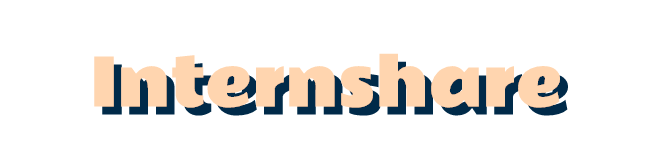
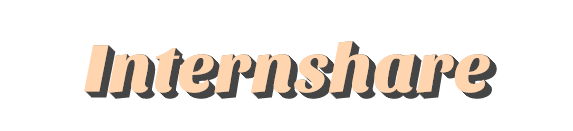
ui fixes

Changed region(s): [[0.1187, 0.3053, 0.8901, 0.7634]]

diff --git a/senior-project/src/views/Home.vue b/senior-project/src/views/Home.vue
@@ -1,13 +1,14 @@
 <template>
     <div id="app">
         <img class="background" src="../assets/background.png">
-        <!-- <img  src="../assets/Internshare.png"> -->
+        <img class="title" src="../assets/Internshare.png">
         <v-card class="intro">
           <v-card-actions>
-            <v-text-field
-              label="Search for a company to start exploring!"
+            <v-text-field v-model="searched"
+              label="Search to start exploring! (ex. Company Name)"
               single-line
               solo hide-details
+              @click:append="explore"
               append-icon="mdi-magnify"
             ></v-text-field>
           </v-card-actions>
@@ -17,14 +18,17 @@
             </v-btn>
           </v-card-actions>
         </v-card>
-        <!-- </div> -->
     </div>
 </template>
 
 <script>
-
+import { EventBus } from "../event-bus";
 export default {
   name: "Home",
+  data: () => ({
+    searched: "",
+    filters: [],
+  }),
   components: {},
   computed: {},
   methods: {
@@ -32,6 +36,9 @@ export default {
       this.$router.push({ name: "Create" });
     },
     explore() {
+      this.filters.push(this.searched)
+      EventBus.$emit("hasFilters", true);
+      EventBus.$emit('filters', this.filters)
       this.$router.push({ name: "Explore" });
     },
   },
@@ -41,44 +48,12 @@ export default {
 <style lang="scss" scoped>
 @import url('https://fonts.googleapis.com/css2?family=Rammetto+One&display=swap');
 .title {
-  font-size: 2.5rem !important;
-  text-align: center;
-  font-family: 'Rammetto One', cursive;
-}
-.card-style {
-  display: flex;
-  flex-direction: column;
-  padding: 50px;
-  align-content: center;
-  text-align: center;
-  .v-card__actions {
-    justify-content: center;
-  }
-  .v-card__title {
-    justify-content: center;
-    word-break: normal;
-  }
-}
-.circle {
-  min-height: 150px;
-  min-width: 150px;
-  border-radius: 150px;
-  display: flex;
-  align-content: center;
+  top: 20%;
+  left: 50%;
+  position: fixed;
+  transform: translate(-50%, -20%);
   justify-content: center;
-  // @media all and (max-width: 1263px) {
-  //   height: 100px;
-  //   width: 100px;
-  // }
-  @media all and (max-width: 959px) {
-    min-height: 150px;
-    min-width: 150px;
-  }
-}
-.icon {
-  z-index: 0;
-  font-size: 64px;
-  color: white;
+  width: 500px;
 }
 .background {
   position: absolute;

diff --git a/senior-project/src/components/AppBar.vue b/senior-project/src/components/AppBar.vue
@@ -2,13 +2,16 @@
   <div>
     <v-app-bar app class="primary" fixed dark elevation="10">
       <v-app-bar-nav-icon @click="drawer = true"></v-app-bar-nav-icon>
-      <v-btn v-show="$route.name !== 'Create'" text @click="create">Create</v-btn>
+      <v-btn v-show="$route.name !== 'Create' || $route.name !== 'Home'"
+        text @click="create">
+        Create
+      </v-btn>
       <v-spacer></v-spacer>
       <!-- <v-icon class="sunny-theme">mdi-weather-sunny</v-icon>
       <v-switch v-model="$vuetify.theme.dark"
         hide-details inset type="button" />
       <v-icon>mdi-weather-night</v-icon> -->
-      <v-menu left bottom>
+      <v-menu left bottom class="menu">
         <template v-slot:activator="{ on, attrs }">
           <v-btn
             v-bind="attrs"
@@ -53,13 +56,6 @@
               <v-icon>mdi-home</v-icon>
             </v-list-item-icon>
             <v-list-item-title>Home</v-list-item-title>
-          </v-list-item>
-
-          <v-list-item link @click="create">
-            <v-list-item-icon>
-              <v-icon>mdi-square-edit-outline</v-icon>
-            </v-list-item-icon>
-            <v-list-item-title>Create</v-list-item-title>
           </v-list-item>
 
           <v-list-item link @click="explore">
@@ -123,4 +119,12 @@ export default {
 .sunny-theme {
   padding-right: 15px;
 }
+.menu {
+  min-width: 90px;
+  top: 60px;
+  left: 600px;
+  z-index: 5;
+  text-align: center;
+}
+
 </style>

diff --git a/senior-project/src/App.vue b/senior-project/src/App.vue
@@ -2,7 +2,7 @@
   <v-app class="inspire">
     <load-overlay v-show="loading || $auth.isLoading" />
     <v-overlay :opacity="0.75" v-show="showFilters">
-      <filters @close="close" @hasFilters="setHasFilters" />
+      <filters @close="close"/>
     </v-overlay>
     <app-bar />
     <v-main class="page">
@@ -60,8 +60,7 @@ import { EventBus } from "./event-bus";
 
 export default {
   name: "App",
-  data: (vm) => ({
-    initialDark: vm.$vuetify ? vm.$vuetify.theme.dark : false,
+  data: () => ({
     loading: true,
     showFilters: false,
     hasFilters: false,
@@ -85,6 +84,9 @@ export default {
           this.loading = false;
         });
     }, 5000);
+    EventBus.$on("hasFilters", (val) => {
+      this.hasFilters = val
+    });
   },
   computed: {
     ...mapGetters(["getInternships"]),
@@ -108,9 +110,6 @@ export default {
     clearFilters() {
       EventBus.$emit("clearFilters");
       this.hasFilters = false;
-    },
-    setHasFilters(val) {
-      this.hasFilters = val;
     },
   },
   // created() {

diff --git a/senior-project/src/views/Explore.vue b/senior-project/src/views/Explore.vue
@@ -1,6 +1,15 @@
 <template>
   <v-container class="explore">
     <h1 class="title">Explore!</h1>
+    <v-row>
+      <v-col cols="8" offset-sm="2">
+        <div v-for="(filter,index) in filters" :key="index">
+        <v-chip class="ma-2" close>
+          {{filter}}
+        </v-chip>
+        </div>
+      </v-col>
+    </v-row>
     <postings :getInternships="getInternships" />
   </v-container>
 </template>
@@ -8,9 +17,12 @@
 <script>
 import { mapGetters } from "vuex";
 import Postings from "../components/Postings.vue"
+import { EventBus } from "../event-bus";
 export default {
   name: "Explore",
-  data: () => ({}),
+  data: () => ({
+    filters: []
+  }),
   components: {
     Postings
   },
@@ -18,6 +30,15 @@ export default {
     ...mapGetters(["getInternships"]),
   },
   methods: {},
+  mounted() {
+    EventBus.$on("filter", (val) => {
+      console.log('hello')
+      this.filters = [...val];
+    });
+    EventBus.$on("clearFilter", () => {
+      this.filters = [];
+    });
+  },
 };
 </script>
 

diff --git a/senior-project/src/components/Filters.vue b/senior-project/src/components/Filters.vue
@@ -124,11 +124,12 @@ export default {
   },
   methods: {
     filterPosts() {
-      let arrays = [];
+      const arrays = [];
       if (this.majors.length > 0) {
         arrays.concat(this.majors);
       }
       if (this.companies.length > 0) {
+        console.log('1')
         arrays.concat(this.companies);
       }
       if (this.disciplines.length > 0) {
@@ -140,15 +141,16 @@ export default {
       let removeDupes = arrays.filter((item, pos) => {
         return arrays.indexOf(item) == pos;
       });
+      console.log(arrays)
       EventBus.$emit("filter", removeDupes);
-      this.$emit("hasFilters", this.hasFilters);
+      EventBus.$emit("hasFilters", this.hasFilters);
       this.$emit("close", false);
     },
     close() {
       this.$emit("close", false);
     },
     clear() {
-      this.$emit("hasFilters", false);
+      EventBus.$emit("hasFilters", false);
       this.majors = [];
       this.companies = [];
       this.disciplines = [];

diff --git a/senior-project/src/components/Postings.vue b/senior-project/src/components/Postings.vue
@@ -81,11 +81,10 @@ export default {
   computed: {
     filteredInternships() {
       if (this.filters.length > 0) {
-        // this.getInternships.filter((x) => {
-        //   console.log(this.filters.some((y) => x.includes(y)))
-        //   return this.filters.some((y) => x.includes(y))
-        // })
-        return this.getInternships;
+        this.getInternships.filter((x) => {
+          console.log(this.filters.some((y) => x.includes(y)))
+          return this.filters.some((y) => x.includes(y))
+        }, [])
       }
       return this.getInternships;
     },
